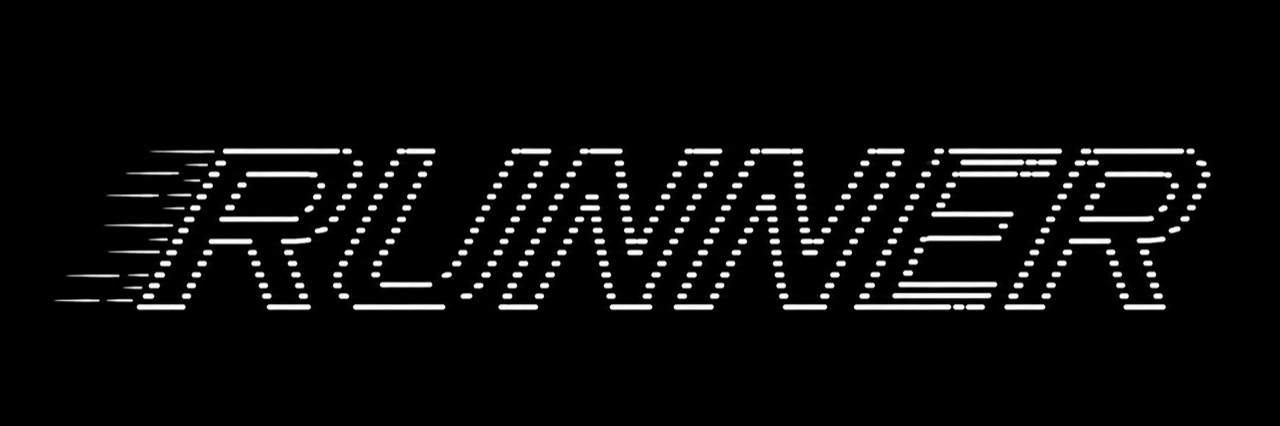
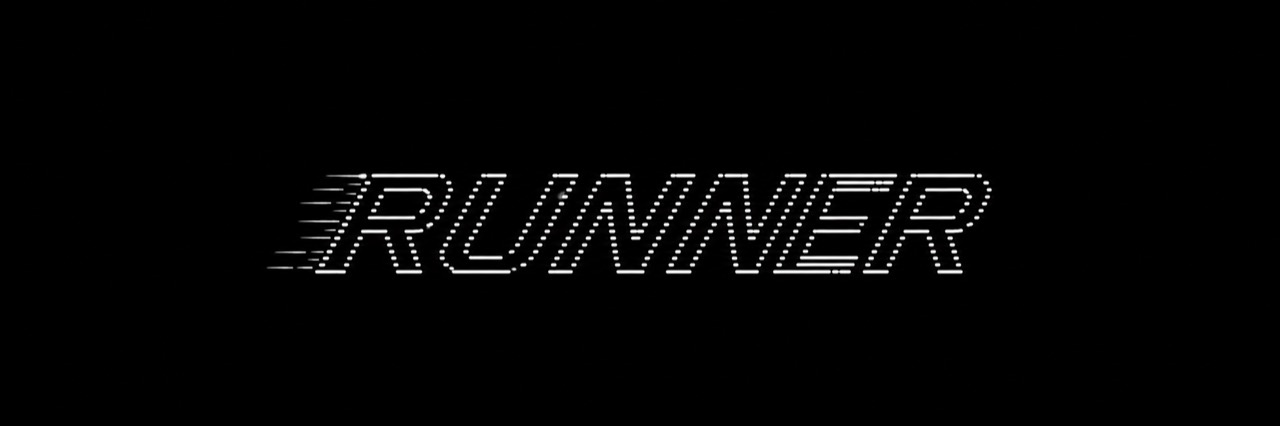
Fix mobile hero and clarify Runner mechanism

Changed region(s): [[0.0312, 0.3357, 0.9688, 0.7324]]

diff --git a/app/scout.css b/app/scout.css
@@ -1,5 +1,7 @@
 .scout-app {
   position: relative;
+  width: 100%;
+  max-width: 100%;
   min-height: 100vh;
   overflow: clip;
   background:
@@ -2259,7 +2261,7 @@
 }
 
 .runner-brand-masthead {
-  height: 88px;
+  height: clamp(96px, 10vw, 128px);
   border-color: rgba(255,255,255,.1);
 }
 
@@ -2267,6 +2269,57 @@
 .runner-hero .scout-eyebrow { margin: 12px 0 7px; font-size: 9px; letter-spacing: .05em; }
 .runner-hero h1 { max-width: 470px; font-size: clamp(38px, 4.1vw, 56px); line-height: .94; }
 .runner-hero .scout-hero__body { max-width: 470px; margin-top: 12px; font-size: 12px; line-height: 1.52; }
+.runner-hero-mechanism {
+  display: grid;
+  grid-template-columns: repeat(3, minmax(0, 1fr));
+  margin-top: 12px;
+  border: 1px solid var(--scout-line);
+  background: rgba(4,6,8,.72);
+}
+.runner-hero-mechanism > span {
+  display: grid;
+  gap: 5px;
+  min-width: 0;
+  padding: 8px;
+  border-right: 1px solid var(--scout-line);
+}
+.runner-hero-mechanism > span:last-child { border-right: 0; }
+.runner-hero-mechanism small {
+  overflow: hidden;
+  color: var(--scout-muted);
+  font: 600 7px/1 var(--scout-mono);
+  letter-spacing: .055em;
+  text-overflow: ellipsis;
+  text-transform: uppercase;
+  white-space: nowrap;
+}
+.runner-hero-mechanism strong {
+  overflow: hidden;
+  color: var(--scout-text);
+  font: 650 9px/1.2 var(--scout-mono);
+  text-overflow: ellipsis;
+  white-space: nowrap;
+}
+.runner-hero-links {
+  display: flex;
+  flex-wrap: wrap;
+  gap: 1px;
+  margin-top: 8px;
+}
+.runner-hero-links a {
+  display: inline-flex;
+  min-height: 29px;
+  align-items: center;
+  justify-content: space-between;
+  gap: 16px;
+  padding: 0 9px;
+  border: 1px solid var(--scout-line);
+  color: var(--scout-green);
+  font: 650 8px/1 var(--scout-mono);
+  letter-spacing: .04em;
+  text-transform: uppercase;
+}
+.runner-hero-links a:hover { border-color: var(--scout-line-green); background: rgba(140,255,114,.035); }
 .runner-hero .scout-action-links { margin-top: 15px; gap: 6px; }
 .runner-hero .scout-hero__delay { margin-top: 9px; font: 550 8px/1.35 var(--scout-mono); letter-spacing: .05em; }
 
@@ -2568,14 +2621,21 @@
 
   .scout-hero {
     grid-template-columns: minmax(0, 1fr);
+    width: min(calc(100% - 24px), 680px);
+    max-width: 100%;
     min-height: auto;
     gap: 14px;
     padding: 24px 0 20px;
+    overflow: hidden;
   }
+  .scout-hero__copy,
+  .scout-hero__terminal,
+  .runner-scanner-panel,
+  .runner-brand-masthead { width: 100%; max-width: 100%; min-width: 0; }
   .scout-hero::before { top: 220px; right: -260px; }
   .scout-hero__scan { bottom: 180px; mask-image: linear-gradient(to right, #000, transparent); }
   .scout-hero h1 { max-width: 620px; font-size: clamp(38px, 9vw, 52px); }
-  .scout-hero__body { font-size: 12px; }
+  .scout-hero__body { max-width: 100%; overflow-wrap: anywhere; font-size: 12px; }
   .scout-live-strip { grid-template-columns: repeat(2, minmax(0, 1fr)); }
 
   .scout-section-heading--inline { display: block; }
@@ -2713,6 +2773,13 @@
   .runner-brand-masthead { height: 64px; }
 
   .runner-hero__statusline { align-items: flex-start; flex-direction: column; gap: 7px; }
+  .runner-hero-mechanism { grid-template-columns: 1fr; }
+  .runner-hero-mechanism > span { border-right: 0; border-bottom: 1px solid var(--scout-line); }
+  .runner-hero-mechanism > span:last-child { border-bottom: 0; }
+  .runner-hero-links { display: grid; grid-template-columns: 1fr; }
+  .runner-hero-links a { width: 100%; }
+  .runner-hero h1 { max-width: 100%; font-size: clamp(34px, 12vw, 44px); overflow-wrap: normal; }
+  .runner-brand-masthead img { object-position: center; }
 
   .runner-hero__logo {
     width: clamp(170px, 64vw, 250px);

diff --git a/components/scout/terminal-view.tsx b/components/scout/terminal-view.tsx
@@ -11,6 +11,7 @@ import {
   Terminal
 } from "lucide-react";
 import { useEffect, useRef, useState } from "react";
+import { scoutPublicConfig } from "../../lib/scout-public";
 import { formatClock, formatMoney, formatPercent, formatTime } from "./format";
 import { useCountdown } from "./hooks";
 import { useScout } from "./scout-provider";
@@ -345,9 +346,18 @@ export function ScoutTerminalView() {
             <StatusBadge label={state === "loading" ? "Scanner starting" : reconnecting ? "Scanner reconnecting" : "Scanner online"} />
             <span>{signals.active ? (signals.access === "premium" ? "REAL-TIME VERIFIED FEED" : `VERIFIED FEED · ${signals.publicDelaySeconds}S DELAY`) : state === "loading" ? "CONNECTING MARKET FEED" : reconnecting ? "MARKET FEED STATUS UNAVAILABLE" : "WATCHING LIVE MARKET FEED"}</span>
           </div>
-          <p className="scout-eyebrow">Custom aggregator · Five-minute Runner airdrops</p>
+          <p className="scout-eyebrow">Five-minute Runner airdrops · Custom aggregate scanner</p>
           <h1>Never miss a<br /><span>runner again.</span></h1>
-          <p className="scout-hero__body">Every five minutes, Runner's custom aggregator scans market activity, ranks the strongest momentum signal, and airdrops that runner to eligible holders.</p>
+          <p className="scout-hero__body">Every five minutes, Runner airdrops the strongest verified market Runner to eligible holders with {scoutPublicConfig.minimumHolding.toLocaleString()}+ $RUNNER. Every selection comes from our custom aggregate scanner.</p>
+          <div className="runner-hero-mechanism" aria-label="Runner distribution mechanism">
+            <span><small>Holder minimum</small><strong>{scoutPublicConfig.minimumHolding.toLocaleString()}+ $RUNNER</strong></span>
+            <span><small>Distribution cycle</small><strong>Every 5 minutes</strong></span>
+            <span><small>Runner selection</small><strong>Aggregate scanner</strong></span>
+          </div>
+          <nav className="runner-hero-links" aria-label="Runner scanner links">
+            <Link href="/runners">View all scans <ArrowRight size={13} /></Link>
+            <Link href="/terminal">Open Runner Terminal <ArrowRight size={13} /></Link>
+          </nav>
           <p className="scout-hero__delay"><Clock3 size={15} /> THE MARKET NEVER STOPS. NEITHER DO WE.</p>
         </div>
         <div className="scout-hero__terminal runner-scanner-panel">
@@ -426,8 +436,8 @@ export function ScoutTerminalView() {
 
       <section className="scout-terminal-section" id="terminal">
         <div className="scout-section-heading scout-section-heading--inline">
-          <div><span className="scout-kicker">Runner Terminal</span><h2>Scan. Rank. Lock. Airdrop.</h2></div>
-          <p>The custom aggregator finds the strongest runner and moves it into the next five-minute distribution cycle.</p>
+          <div><span className="scout-kicker">Runner Terminal</span><h2>Every verified scan. One live terminal.</h2></div>
+          <p>Review the complete scan record, then monitor the current Runner as the aggregate scanner ranks, verifies, and locks each signal.</p>
         </div>
         <div className="scout-terminal-grid">
           <CurrentSignalPanel signal={signals.active} />

diff --git a/app/layout.tsx b/app/layout.tsx
@@ -1,4 +1,4 @@
-import type { Metadata } from "next";
+import type { Metadata, Viewport } from "next";
 import { IBM_Plex_Mono, IBM_Plex_Sans_Condensed } from "next/font/google";
 import { ScoutShell } from "../components/scout/scout-shell";
 import "./globals.css";
@@ -22,6 +22,12 @@ const siteUrl = process.env.NEXT_PUBLIC_SITE_URL
   ?? (process.env.VERCEL_PROJECT_PRODUCTION_URL
     ? `https://${process.env.VERCEL_PROJECT_PRODUCTION_URL}`
     : "http://localhost:3000");
+
+export const viewport: Viewport = {
+  width: "device-width",
+  initialScale: 1,
+  viewportFit: "cover"
+};
 
 export const metadata: Metadata = {
   metadataBase: new URL(siteUrl),

diff --git a/app/globals.css b/app/globals.css
@@ -20,13 +20,19 @@
 }
 
 html {
+  width: 100%;
+  max-width: 100%;
+  overflow-x: hidden;
   background: var(--scout-bg);
   scroll-behavior: smooth;
 }
 
 body {
   margin: 0;
+  width: 100%;
+  max-width: 100%;
   min-width: 320px;
+  overflow-x: hidden;
   background: var(--scout-bg);
   color: var(--scout-text);
   font-family: var(--scout-mono);

diff --git a/app/api/holders/route.ts b/app/api/holders/route.ts
@@ -115,8 +115,8 @@ async function getSettledPayouts(config: { url: string; key: string }) {
 
 function reasonLabel(reason: string | null | undefined) {
   const sourceSymbol = process.env.NEXT_PUBLIC_SOURCE_SYMBOL ?? "RUNNER";
-  const parsedEligibilityMin = Number(process.env.NEXT_PUBLIC_ELIGIBILITY_MIN ?? process.env.ELIGIBILITY_MIN ?? 2_500_000);
-  const eligibilityMin = Number.isFinite(parsedEligibilityMin) && parsedEligibilityMin > 0 ? parsedEligibilityMin : 2_500_000;
+  const parsedEligibilityMin = Number(process.env.NEXT_PUBLIC_ELIGIBILITY_MIN ?? process.env.ELIGIBILITY_MIN ?? 1_000_000);
+  const eligibilityMin = Number.isFinite(parsedEligibilityMin) && parsedEligibilityMin > 0 ? parsedEligibilityMin : 1_000_000;
   const eligibilityLabel =
     process.env.NEXT_PUBLIC_ELIGIBILITY_LABEL ?? eligibilityMin.toLocaleString(undefined, { notation: "compact", maximumFractionDigits: 1 });
   if (reason === "balance_decreased") return `Sold ${sourceSymbol}`;

diff --git a/app/api/scout/access/verify/route.ts b/app/api/scout/access/verify/route.ts
@@ -20,8 +20,8 @@ function sourceMint() {
 }
 
 function eligibilityMinimum() {
-  const parsed = Number(process.env.ELIGIBILITY_MIN ?? process.env.NEXT_PUBLIC_ELIGIBILITY_MIN ?? 2_500_000);
-  return Number.isFinite(parsed) && parsed > 0 ? parsed : 2_500_000;
+  const parsed = Number(process.env.ELIGIBILITY_MIN ?? process.env.NEXT_PUBLIC_ELIGIBILITY_MIN ?? 1_000_000);
+  return Number.isFinite(parsed) && parsed > 0 ? parsed : 1_000_000;
 }
 
 function signatureBytes(value: string) {

diff --git a/app/api/wallet/route.ts b/app/api/wallet/route.ts
@@ -85,8 +85,8 @@ function multiplierBps(holder: HolderStateRow | null) {
 }
 
 function minimumHolding() {
-  const parsed = Number(process.env.ELIGIBILITY_MIN ?? process.env.NEXT_PUBLIC_ELIGIBILITY_MIN ?? 2_500_000);
-  return Number.isFinite(parsed) && parsed > 0 ? parsed : 2_500_000;
+  const parsed = Number(process.env.ELIGIBILITY_MIN ?? process.env.NEXT_PUBLIC_ELIGIBILITY_MIN ?? 1_000_000);
+  return Number.isFinite(parsed) && parsed > 0 ? parsed : 1_000_000;
 }
 
 function dropSolValue(payout: PayoutRow, buy: BuyRow | undefined) {

diff --git a/app/api/stats/route.ts b/app/api/stats/route.ts
@@ -342,7 +342,7 @@ async function liveEligibleHolderCount() {
   const mint = sourceTokenMint();
   if (!mint) return null;
 
-  const eligibilityMin = Math.max(0, numberEnv("ELIGIBILITY_MIN", 2_500_000));
+  const eligibilityMin = Math.max(0, numberEnv("ELIGIBILITY_MIN", 1_000_000));
   const maxHolderPct = numberEnv("MAX_HOLDER_PCT", 4);
   const endpoint = rpcUrl();
   const cacheKey = `${endpoint}:${mint.toBase58()}:${eligibilityMin}:${maxHolderPct}`;

diff --git a/worker/src/config.ts b/worker/src/config.ts
@@ -127,7 +127,7 @@ export const config = {
   airdropEnabled: boolEnv("AIRDROP_ENABLED", false),
 
   epochMinutes: Math.max(1, intEnv("EPOCH_MINUTES", 5)),
-  eligibilityMin: numberEnv("ELIGIBILITY_MIN", 2_500_000),
+  eligibilityMin: numberEnv("ELIGIBILITY_MIN", 1_000_000),
   maxWalletsPerEpoch: Math.max(1, intEnv("MAX_WALLETS_PER_EPOCH", 150)),
   maxHolderPct: numberEnv("MAX_HOLDER_PCT", 4),
   excludeWallets: optionalWallets("EXCLUDE_WALLETS"),

diff --git a/SCOUT_LAUNCH_KIT.md b/SCOUT_LAUNCH_KIT.md
@@ -16,7 +16,7 @@ Scout is live.
 
 See where attention is moving before it becomes obvious.
 
-Hold 2.5M+ $SCOUT for Full Scout access and eligibility in the five-minute holder distribution rail.
+Hold 1M+ $RUNNER for eligibility in the five-minute holder distribution rail.
 
 ### Thread outline
 
@@ -51,7 +51,7 @@ Supported commands: `/runner`, `/top`, `/new`, `/search`, `/scan`, `/watch`, `/u
 - [ ] Scout migration applied
 - [ ] Old launch data reset
 - [ ] Source mint and public links verified
-- [ ] 2.5M eligibility displayed by site and worker
+- [ ] 1M eligibility displayed by site and worker
 - [ ] Five-minute epoch displayed by site and worker
 - [ ] First signal queued and reviewed
 - [ ] Premium/public one-minute release delay tested

diff --git a/README.md b/README.md
@@ -18,7 +18,7 @@ It records authenticated token signals, enriches them with connected market data
 
 ## Holder rules
 
-- Minimum balance: `2,500,000 SCOUT`
+- Minimum balance: `1,000,000 RUNNER`
 - Epoch cadence: five minutes
 - Wallets above `MAX_HOLDER_PCT` are excluded
 - A balance decrease resets the epoch streak and multiplier to `1.00x`